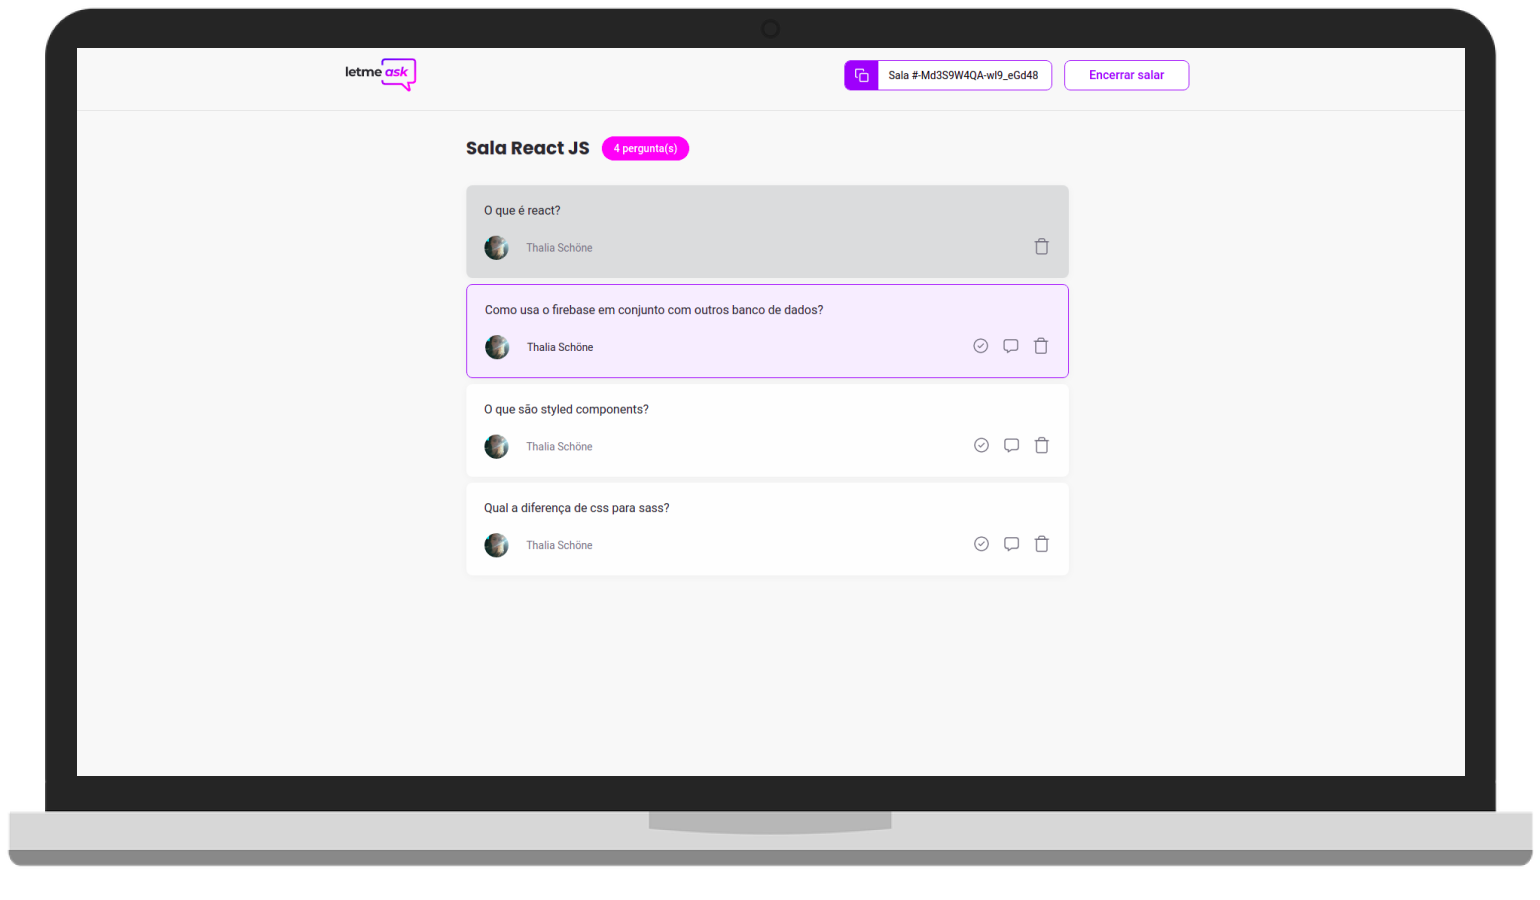
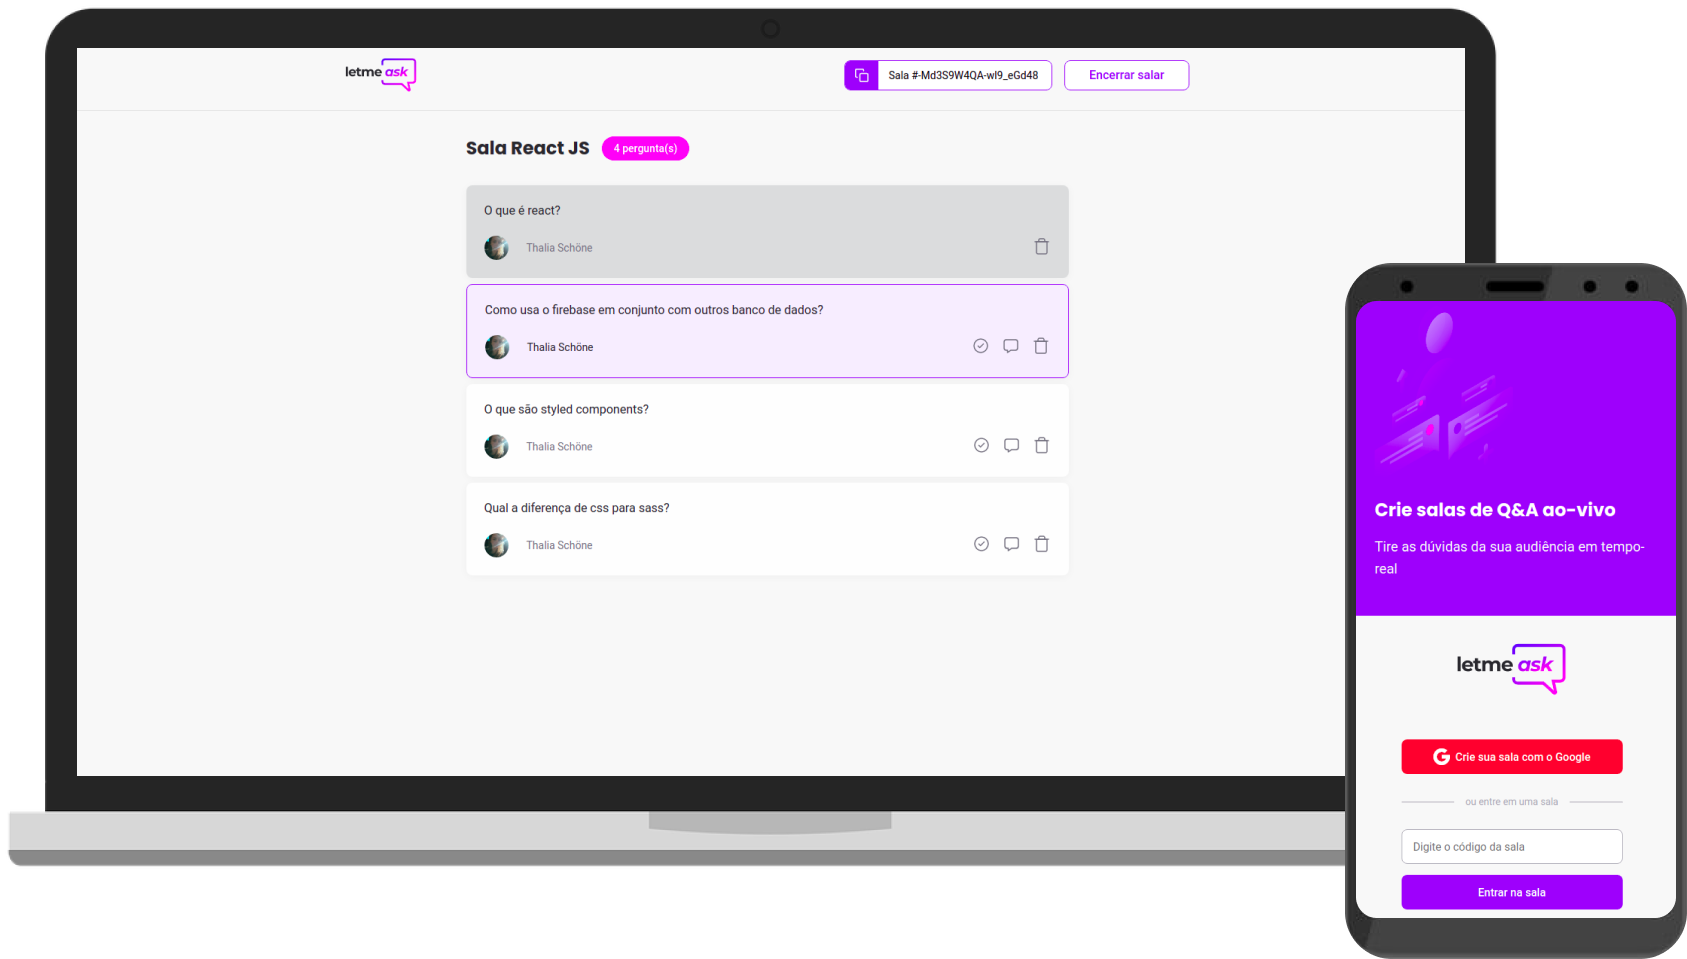
added responsive layout

diff --git a/src/styles/auth.scss b/src/styles/auth.scss
@@ -141,3 +141,39 @@
       }
     }
   }
+
+  @media (max-width: 900px)
+{
+  #page-auth
+   {
+    flex-direction: column;
+
+   aside {
+     height: 500px;
+     padding: 100px 40px;
+
+     img {
+       width: 200px;
+     }
+
+     strong {
+       font-size: 26px;
+     }
+     p {
+       font-size: 20px;
+     }
+
+   }
+   }
+
+   .main-content{
+    margin-top: 40px;
+  }
+  .create-room {
+    margin-top: 0px;
+  }
+
+    .button {
+      margin-bottom: 20px;
+  }
+}

diff --git a/src/styles/room.scss b/src/styles/room.scss
@@ -13,6 +13,7 @@
   
         > img {
           max-height: 45px;
+          margin-right: 10px;
         }
 
         > div {
@@ -28,7 +29,7 @@
     main {
         max-width: 800px;
         margin: 0 auto;
-    
+        padding: 30px;
         .room-title {
           margin: 32px 0 24px;
           display: flex;
@@ -111,3 +112,11 @@
           }
         }
       }
+
+
+@media (max-width: 900px){
+
+  main {
+    padding: 10px;
+  }
+}

diff --git a/src/pages/AdminRoom.tsx b/src/pages/AdminRoom.tsx
@@ -57,7 +57,7 @@ export function AdminRoom() {
       <header>
         <div className="content">
           <img src={logoImg} alt="Letmeask" />
-          <div>
+          <div className="buttons">
             <RoomCode code={roomId} />
             <Button isOutlined onClick={handleEndRoom}>
               Encerrar salar

diff --git a/src/pages/Home.tsx b/src/pages/Home.tsx
@@ -72,7 +72,7 @@ export default function Home() {
             onChange={event => setRoomCode(event.target.value)}
             value={roomCode}
           />
-          <Button type="submit">
+          <Button className="button" type="submit">
             Entrar na sala
           </Button>
         </form>

diff --git a/src/styles/question.scss b/src/styles/question.scss
@@ -80,3 +80,10 @@
     }
 
 }
+
+@media (max-width: 900px){
+
+  .buttons {
+    flex-direction: column;
+  }
+}

diff --git a/src/styles/room-code.scss b/src/styles/room-code.scss
@@ -28,3 +28,9 @@
 
     }
 }
+
+@media (max-width: 900px){
+    span {
+        font-size: 12px;
+    }
+}
